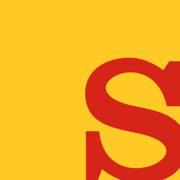
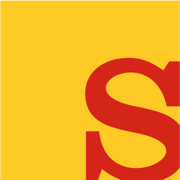
Update See brand artwork

Changed region(s): [[0.0, 0.0, 1.0, 1.0]]

diff --git a/docs/index.html b/docs/index.html
@@ -19,20 +19,22 @@
     <meta name="twitter:description" content="不登录、不上传，在手机本地为照片添加胶片质感。" />
     <meta name="twitter:image" content="https://shawnboom.github.io/s-film/og.png" />
     <title>See｜手机胶片滤镜</title>
-    <link rel="apple-touch-icon" href="./apple-touch-icon.png" />
-    <link rel="apple-touch-icon" sizes="120x120" href="./icons/apple-touch-icon-120.png" />
-    <link rel="apple-touch-icon" sizes="152x152" href="./icons/apple-touch-icon-152.png" />
-    <link rel="apple-touch-icon" sizes="167x167" href="./icons/apple-touch-icon-167.png" />
-    <link rel="apple-touch-icon" sizes="180x180" href="./icons/apple-touch-icon-180.png" />
-    <link rel="icon" type="image/png" sizes="192x192" href="./icons/icon-192.png" />
-    <link rel="manifest" href="./manifest.webmanifest?v=6" />
-    <link rel="stylesheet" href="./styles.css?v=5" />
-    <script src="./app.js?v=6" defer></script>
+    <link rel="apple-touch-icon" href="./apple-touch-icon.png?v=7" />
+    <link rel="apple-touch-icon" sizes="120x120" href="./icons/see-apple-touch-icon-120.png" />
+    <link rel="apple-touch-icon" sizes="152x152" href="./icons/see-apple-touch-icon-152.png" />
+    <link rel="apple-touch-icon" sizes="167x167" href="./icons/see-apple-touch-icon-167.png" />
+    <link rel="apple-touch-icon" sizes="180x180" href="./icons/see-apple-touch-icon-180.png" />
+    <link rel="icon" type="image/png" sizes="192x192" href="./icons/see-icon-192.png" />
+    <link rel="manifest" href="./manifest.webmanifest?v=7" />
+    <link rel="stylesheet" href="./styles.css?v=7" />
+    <script src="./app.js?v=7" defer></script>
   </head>
   <body>
     <main class="app-shell">
       <header class="topbar">
-        <div class="brand">See</div>
+        <div class="brand">
+          <img src="./see-logo.png" width="1306" height="591" alt="See" />
+        </div>
         <div class="privacy-pill"><span></span> 照片仅在本机处理</div>
       </header>
 

diff --git a/app/page.tsx b/app/page.tsx
@@ -122,7 +122,7 @@ export default function Home() {
   const canvasRef = useRef<HTMLCanvasElement>(null);
   const sourceDataRef = useRef<ImageData | null>(null);
   const objectUrlsRef = useRef<string[]>([]);
-  const sourceUrl = photos[activeIndex]?.url ?? "/sample-neutral.png";
+  const sourceUrl = photos[activeIndex]?.url ?? "/see-cover.png";
   const selectedName = FILTERS.find((item) => item.id === activeFilter)?.name;
 
   useEffect(() => {
@@ -161,12 +161,12 @@ export default function Home() {
     if (!context) return;
     const frame = context.createImageData(source.width, source.height);
     frame.data.set(
-      comparing
+      comparing || photos.length === 0
         ? source.data
         : processPixels(source, activeFilter, { strength, brightness, color, grain }),
     );
     context.putImageData(frame, 0, 0);
-  }, [activeFilter, brightness, color, comparing, grain, sourceVersion, strength]);
+  }, [activeFilter, brightness, color, comparing, grain, photos.length, sourceVersion, strength]);
 
   const handleFiles = (event: ChangeEvent<HTMLInputElement>) => {
     const picked = Array.from(event.target.files ?? []).filter((file) => file.type.startsWith("image/"));
@@ -327,7 +327,9 @@ export default function Home() {
   return (
     <main className="app-shell">
       <header className="topbar">
-        <div className="brand">See</div>
+        <div className="brand">
+          <img src="/see-logo.png" width="1306" height="591" alt="See" />
+        </div>
         <div className="privacy-pill"><span /> 照片仅在本机处理</div>
       </header>
 

diff --git a/docs/sw.js b/docs/sw.js
@@ -1,21 +1,22 @@
 "use strict";
 
-const CACHE_NAME = "s-film-static-v6";
+const CACHE_NAME = "s-film-static-v7";
 const ROOT = new URL("./", self.registration.scope).href;
 const APP_SHELL = [
   ROOT,
   new URL("./index.html", ROOT).href,
-  new URL("./styles.css?v=5", ROOT).href,
-  new URL("./app.js?v=6", ROOT).href,
-  new URL("./manifest.webmanifest?v=6", ROOT).href,
-  new URL("./apple-touch-icon.png", ROOT).href,
-  new URL("./icons/apple-touch-icon-120.png", ROOT).href,
-  new URL("./icons/apple-touch-icon-152.png", ROOT).href,
-  new URL("./icons/apple-touch-icon-167.png", ROOT).href,
-  new URL("./icons/apple-touch-icon-180.png", ROOT).href,
-  new URL("./icons/icon-192.png", ROOT).href,
-  new URL("./icons/icon-512.png", ROOT).href,
-  new URL("./sample-neutral.png", ROOT).href,
+  new URL("./styles.css?v=7", ROOT).href,
+  new URL("./app.js?v=7", ROOT).href,
+  new URL("./manifest.webmanifest?v=7", ROOT).href,
+  new URL("./apple-touch-icon.png?v=7", ROOT).href,
+  new URL("./icons/see-apple-touch-icon-120.png", ROOT).href,
+  new URL("./icons/see-apple-touch-icon-152.png", ROOT).href,
+  new URL("./icons/see-apple-touch-icon-167.png", ROOT).href,
+  new URL("./icons/see-apple-touch-icon-180.png", ROOT).href,
+  new URL("./icons/see-icon-192.png", ROOT).href,
+  new URL("./icons/see-icon-512.png", ROOT).href,
+  new URL("./see-logo.png", ROOT).href,
+  new URL("./see-cover.png", ROOT).href,
   new URL("./s-film-social.png", ROOT).href,
   new URL("./og.png", ROOT).href,
 ];

diff --git a/app/layout.tsx b/app/layout.tsx
@@ -17,14 +17,14 @@ export async function generateMetadata(): Promise<Metadata> {
     manifest: "/manifest.webmanifest",
     icons: {
       icon: [
-        { url: "/icons/icon-192.png", sizes: "192x192", type: "image/png" },
-        { url: "/icons/icon-512.png", sizes: "512x512", type: "image/png" },
+        { url: "/icons/see-icon-192.png", sizes: "192x192", type: "image/png" },
+        { url: "/icons/see-icon-512.png", sizes: "512x512", type: "image/png" },
       ],
       apple: [
-        { url: "/apple-touch-icon.png", sizes: "180x180", type: "image/png" },
-        { url: "/icons/apple-touch-icon-167.png", sizes: "167x167", type: "image/png" },
-        { url: "/icons/apple-touch-icon-152.png", sizes: "152x152", type: "image/png" },
-        { url: "/icons/apple-touch-icon-120.png", sizes: "120x120", type: "image/png" },
+        { url: "/apple-touch-icon.png?v=7", sizes: "180x180", type: "image/png" },
+        { url: "/icons/see-apple-touch-icon-167.png", sizes: "167x167", type: "image/png" },
+        { url: "/icons/see-apple-touch-icon-152.png", sizes: "152x152", type: "image/png" },
+        { url: "/icons/see-apple-touch-icon-120.png", sizes: "120x120", type: "image/png" },
       ],
     },
     appleWebApp: {

diff --git a/docs/app.js b/docs/app.js
@@ -177,7 +177,7 @@ function drawPreview() {
   if (!context) return;
   const frame = context.createImageData(state.sourceData.width, state.sourceData.height);
   frame.data.set(
-    state.comparing
+    state.comparing || !state.photos.length
       ? state.sourceData.data
       : processPixels(state.sourceData, state.activeFilter, settings()),
   );
@@ -185,7 +185,7 @@ function drawPreview() {
 }
 
 async function loadPreview() {
-  const sourceUrl = state.photos[state.activeIndex]?.url || "./sample-neutral.png";
+  const sourceUrl = state.photos[state.activeIndex]?.url || "./see-cover.png";
   try {
     const image = await loadImage(sourceUrl);
     const scale = Math.min(1, PREVIEW_LONG_EDGE / Math.max(image.naturalWidth, image.naturalHeight));
@@ -407,7 +407,7 @@ window.addEventListener("pagehide", () => {
 });
 
 if ("serviceWorker" in navigator && location.protocol === "https:") {
-  navigator.serviceWorker.register("./sw.js?v=6").catch(() => {});
+  navigator.serviceWorker.register("./sw.js?v=7").catch(() => {});
 }
 
 updateAllSliders();

diff --git a/docs/styles.css b/docs/styles.css
@@ -22,7 +22,8 @@ button:focus-visible, input:focus-visible, label:has(input:focus-visible) { outl
 
 .app-shell { width: min(calc(100% - 16px), 390px); margin: 8px auto; overflow: hidden; border: 1px solid var(--line); border-radius: 28px; background: var(--paper); box-shadow: 0 18px 48px rgba(0, 0, 0, 0.16); }
 .topbar { display: flex; align-items: center; justify-content: space-between; min-height: 52px; padding: 0 16px; border-bottom: 1px solid var(--line); }
-.brand { font-size: 12px; font-weight: 500; letter-spacing: 0.14em; }
+.brand { display: flex; align-items: center; min-width: 44px; }
+.brand img { display: block; width: auto; height: 19px; }
 .privacy-pill { display: flex; align-items: center; gap: 7px; color: var(--muted); font-size: 11px; }
 .privacy-pill span { width: 7px; height: 7px; border-radius: 50%; background: var(--accent); }
 

diff --git a/public/sw.js b/public/sw.js
@@ -1,15 +1,16 @@
-const CACHE_NAME = "s-film-v5";
+const CACHE_NAME = "s-film-v6";
 const APP_SHELL = [
   "/",
   "/manifest.webmanifest",
   "/apple-touch-icon.png",
-  "/icons/apple-touch-icon-120.png",
-  "/icons/apple-touch-icon-152.png",
-  "/icons/apple-touch-icon-167.png",
-  "/icons/apple-touch-icon-180.png",
-  "/icons/icon-192.png",
-  "/icons/icon-512.png",
-  "/sample-neutral.png",
+  "/icons/see-apple-touch-icon-120.png",
+  "/icons/see-apple-touch-icon-152.png",
+  "/icons/see-apple-touch-icon-167.png",
+  "/icons/see-apple-touch-icon-180.png",
+  "/icons/see-icon-192.png",
+  "/icons/see-icon-512.png",
+  "/see-logo.png",
+  "/see-cover.png",
   "/og.png",
 ];
 

diff --git a/app/globals.css b/app/globals.css
@@ -55,7 +55,8 @@ button:focus-visible, input:focus-visible, label:has(input:focus-visible) { outl
   padding: 0 16px;
   border-bottom: 1px solid var(--line);
 }
-.brand { font-size: 12px; font-weight: 500; letter-spacing: 0.14em; }
+.brand { display: flex; align-items: center; min-width: 44px; }
+.brand img { display: block; width: auto; height: 19px; }
 .privacy-pill { display: flex; align-items: center; gap: 7px; color: var(--muted); font-size: 11px; }
 .privacy-pill span { width: 7px; height: 7px; border-radius: 50%; background: var(--accent); }
 

diff --git a/app/manifest.ts b/app/manifest.ts
@@ -14,13 +14,13 @@ export default function manifest(): MetadataRoute.Manifest {
     theme_color: "#1b1c1a",
     icons: [
       {
-        src: "/icons/icon-192.png",
+        src: "/icons/see-icon-192.png",
         sizes: "192x192",
         type: "image/png",
         purpose: "any",
       },
       {
-        src: "/icons/icon-512.png",
+        src: "/icons/see-icon-512.png",
         sizes: "512x512",
         type: "image/png",
         purpose: "any",
